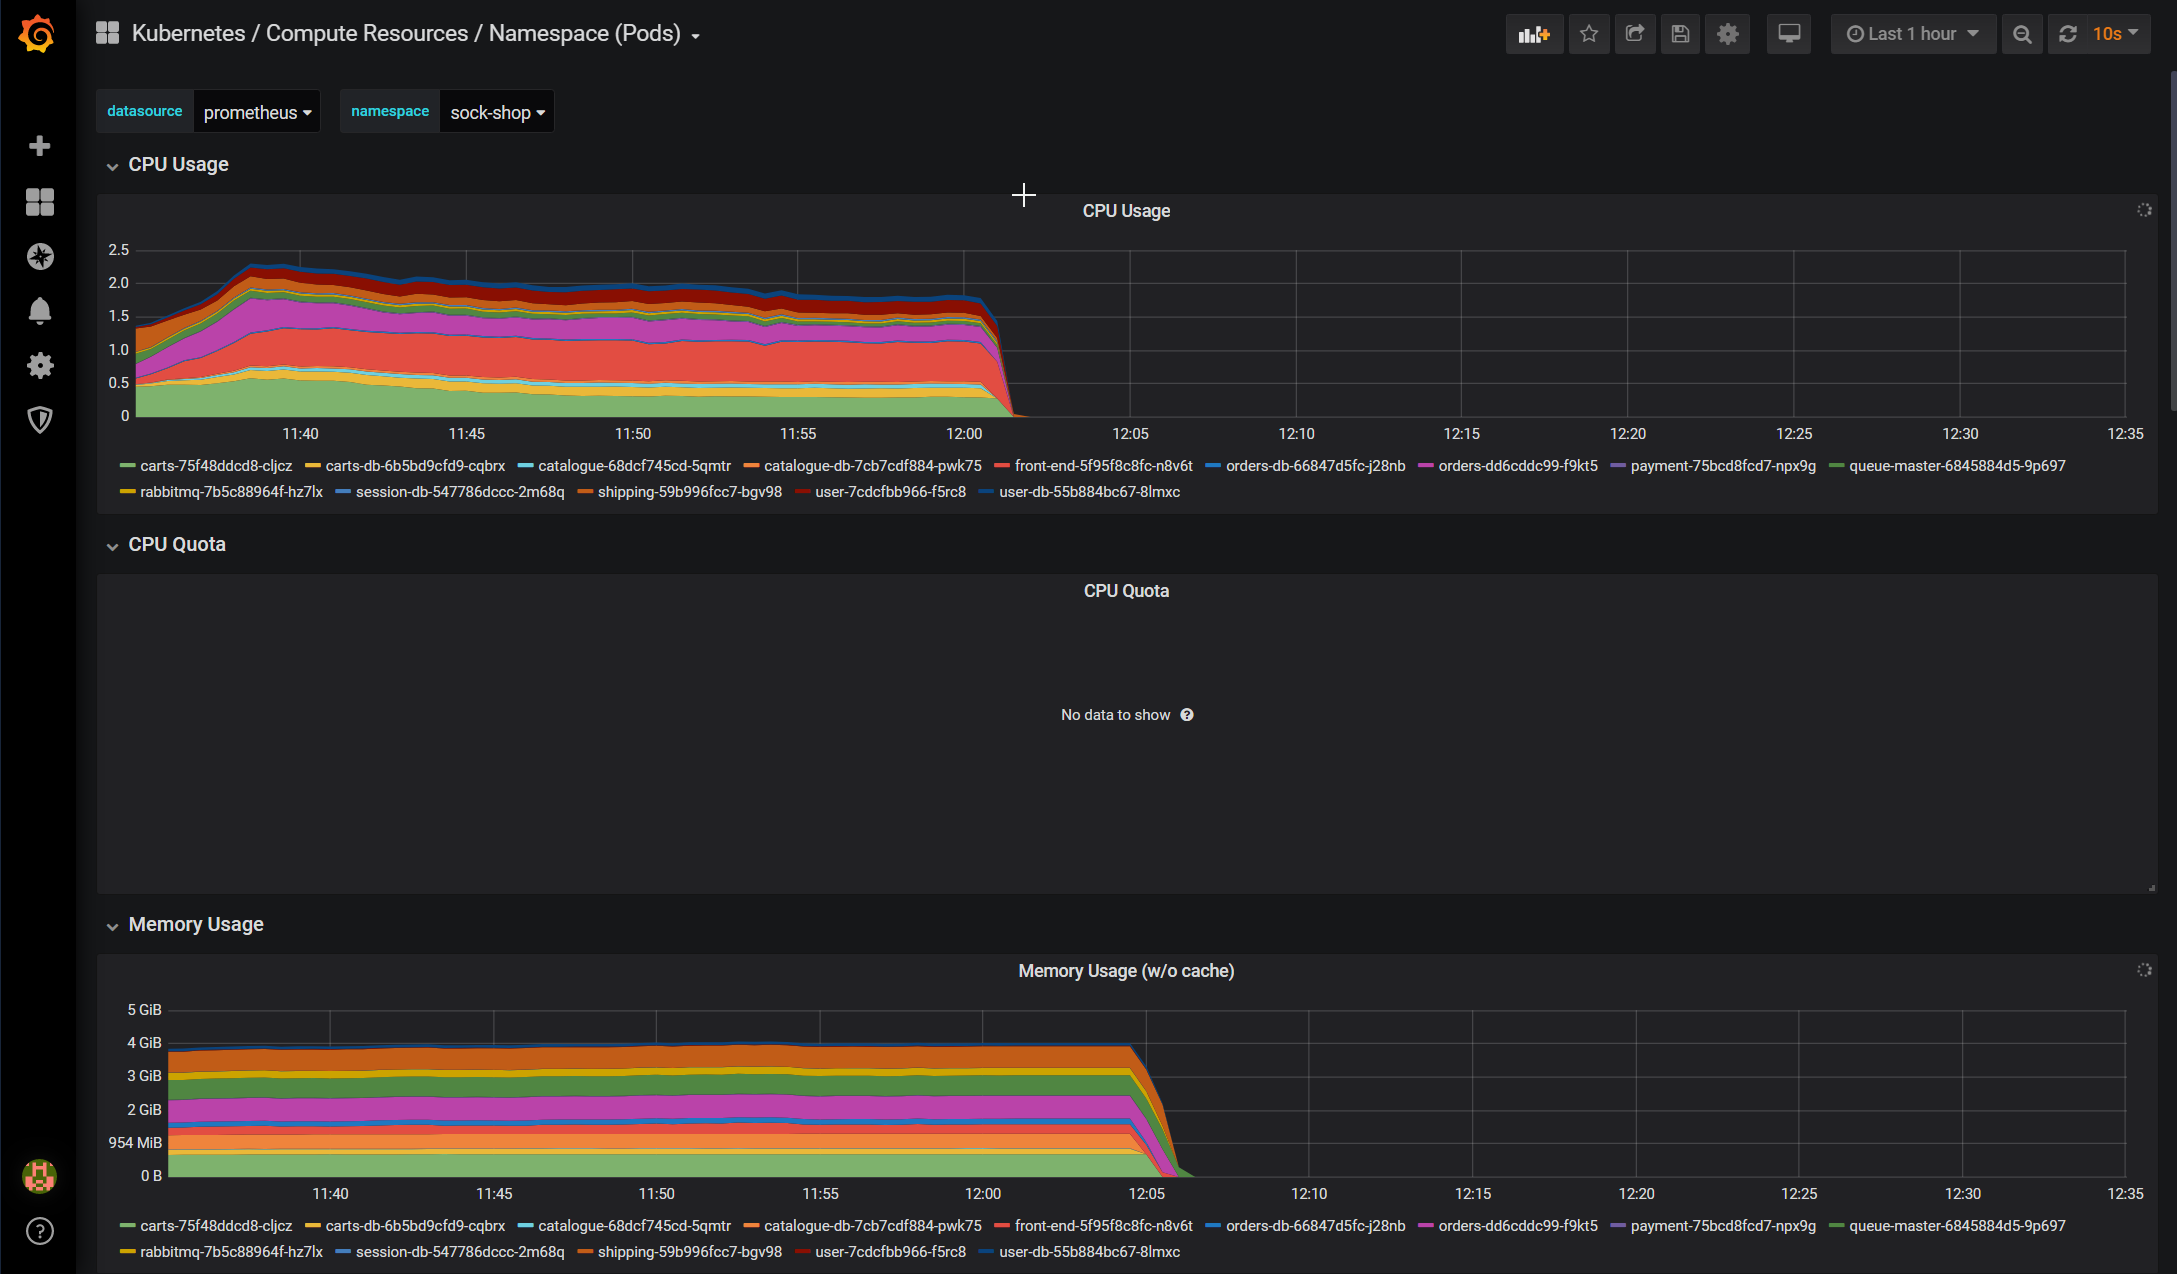
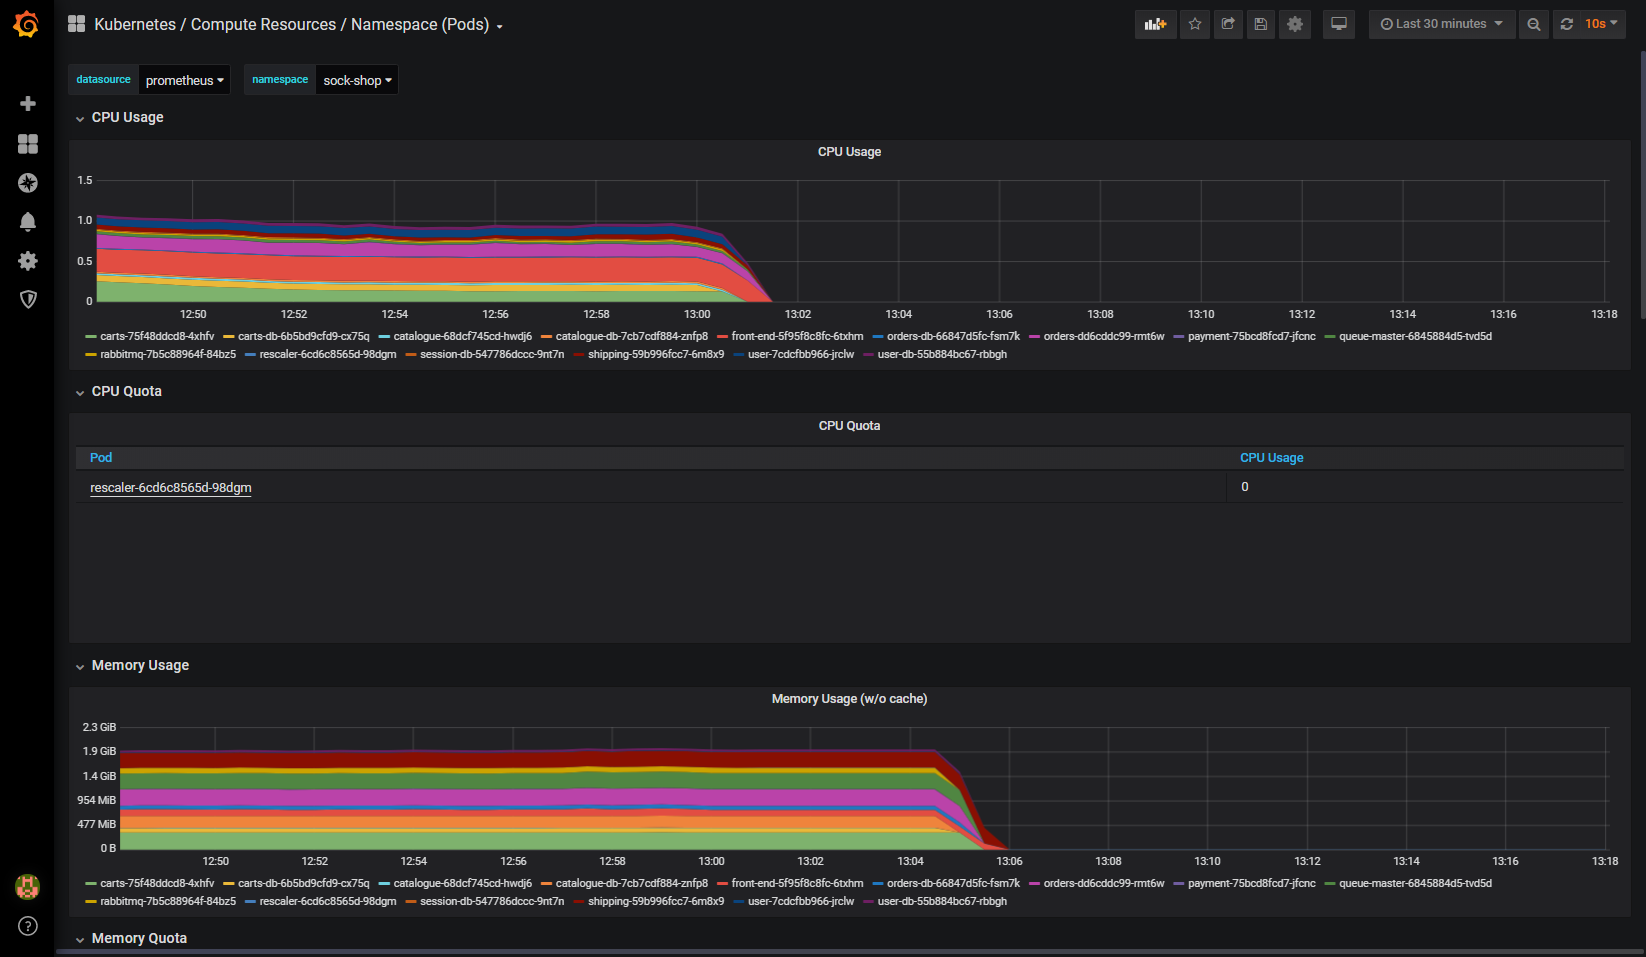
Updated REAME
- Refactor project overview
- Updated UML

diff --git a/README.md b/README.md
@@ -1,27 +1,67 @@
 # Nozzle
 
-Reduce Kubernetes workload on scheduled or traffic decision basis and restore workload on-demand via Web UI or http trigger.
+Reduce Kubernetes workload on schedule or traffic decision basis and restore workload on-demand via Web UI or http trigger.
+
+## Introduction
+
+This project has been initially created during the [Sustainable Digital Challenge](https://www.apidays.co/sustainable-digital-challenge) event organized by [APIdays](https://www.apidays.co) to demonstrate the vision of an aggressive compute resource saving strategy.
+
+> Do you keep the lights on, once you left the room ?
+
+This simple sentense resumes the resoning on how over estimating [availability](https://uptime.is) leads to uncouscious a wast of natural resources.
+
+Nozzle promotes sustainability by simply shuting down eligible resources like:
+
+- **Non-production** environments managed by developer
+- **Application services** required to run only on working hours
+
+### How it works
+
+Nozzle has been initially designed to run as function inside Kubernetes.
+The following sequence diagram describe the steps that functions acheive to securely reduce and restore the workload managed by this orchestrator.
+
+![UML](./docs/diagrams/nozzle/nozzle.png)
+
+### Design requirements
+
+The project has been design using the following requirements to ensure the product sustainability.
+
+* [x] Store only when required
+* [x] Search for reuse before creating something new
+* [x] Aims for the least footprint
+* [x] Constrain the volume of data transfer and resource allocation
+* [x] Scale-to-zero when possible
 
 ### Screeshots
 
-![Grafana footprint](./docs/img/grafana_downscale.png)
+The follwing screeshots show the Nozzle impact on the [microservices-demo](https://microservices-demo.github.io) from [Weaveworks](https://www.weave.works), which by default supports 14 microservices.
 
-![Rescaler Web UI](./docs/img/rescaler.png)
+User gets the following reactive landing page after noozle downscaled the application.
 
-![Rescaler footprint](./docs/img/grafana_rescaler.png)
+![Rescaler landing page](./docs/img/rescaler_landing_page.png)
+
+Once clicked on the **rescale** button, the user gets the logs related to the rescaling of the workload associated to its application.
+
+> From a **storage efficiency** point-of-view Noozle restores the application from Kubernetes resource [annotations](https://kubernetes.io/docs/concepts/overview/working-with-objects/annotations/).
+> By defualt the last known Kubernetes resources configuration is backed up inside the native `kubectl.kubernetes.io/last-applied-configuration` annotation.
+> If not present, Nozzle generates its own annotation containing the minimal amount of date.
+> The following annotation are generated depending on the resource type:
+> * **Deployment & Statefulset**: `replicas.nozzle.io/last-known-configuration`
+> * **Ingress**: `rules.nozzle.io/last-known-configuration`
+
+![Rescaler landing page logs](./docs/img/rescaler_logs.png)
+
+Resource consumption after user request to rescale.
 
 ![Rescaling footprint](./docs/img/grafana_rescale.png)
 
-## Backup efficiency
+User have to refresh it brower tab to regain access to its application
 
-The last-known Kubernetes resources configuration is backed up as [annotations](https://kubernetes.io/docs/concepts/overview/working-with-objects/annotations/), **only** if the native `kubectl.kubernetes.io/last-applied-configuration`  is not present.
+![Rescaling footprint](./docs/img/sock-shop.png)
 
-Following additional annotations are implement depending on the ressource type:
+This last picture shows the resource consumtion after noozle downscaled the application and deployed the rescaler.
 
-* **Deployment & Statefulset**: `replicas.nozzle.io/last-known-configuration`
-* **Ingress**: `rules.nozzle.io/last-known-configuration`
-
-**Warning** : Ingress resources are modified to redirect the traffic to the `rescaler` pod
+![Grafana footprint](./docs/img/grafana_downscale.png)
 
 ## Message formats
 
@@ -29,6 +69,8 @@ Following additional annotations are implement depending on the ressource type:
 * **Ingress JSON**: `{"namespace": str, "name": str, "rules": { dict }}`
 
 ## Implementations
+
+Following the project progress the following plateforms were implemented to compare their own sustainability.
 
 ### Kubeless
 
@@ -38,58 +80,10 @@ Serverless implementation based on Python3, Kubeless and NATS.
 
 Serverless implementation based on Python3, OpenFaaS and NATS.
 
-### Dapr
+### Fission
 
-Serverless implementation based on Python3, Dapr and NATS.
+Serverless implementation based on Python3, Fission and NATS Streaming.
 
 ### Golang
 
 Native Kubernetes implementation based on a Custom Controller written and Go `1.13.x`.
-
-```plantuml
-@startuml
-
-actor "user"
-participant "publish-replicas"
-database "kubernetes"
-queue "nats"
-participant "downscale-replicas"
-participant "inject-rescaler"
-participant "update-ingress"
-queue "stan"
-entity "rescaler"
-
-== Inventory ==
-"publish-replicas" -> "kubernetes" : List namespaces labeled \n ""nozzle=true""
-"kubernetes" --> "publish-replicas" : Eligible workload replicas (deploy/sts)
-"publish-replicas" -> "nats": Publish to **k8s_replicas** topic
-
-== Downscale ==
-"downscale-replicas" -> "nats": Subscribe **k8s_replicas** topic
-"nats" --> "downscale-replicas": Replicas JSON
-"downscale-replicas" -> "kubernetes": Reduce replicas: \n""deploy = 0, sts = 1""
-
-== Redirect ==
-"update-ingress" -> "nats": Subscribe **k8s_replicas** topic
-"nats" --> "update-ingress": Replicas JSON
-"update-ingress" -> "stan": Publish matched selector \n ingress spec to topic **k8s_ingress** topic
-"update-ingress" -> "kubernetes": Change ingress target
-|||
-"inject-rescaler" -> "nats": Subscribe **k8s_replicas** topic
-"nats" -> "inject-rescaler": Replicas JSON
-"inject-rescaler" -> "kubernetes": Deploy on-demand replicas rescaler 
-"kubernetes" --> "rescaler": Run Web server
-
-== User action ==
-"user" -> "rescaler": Request rescale
-
-== Rescale ==
-"rescale-replicas" -> "stan": Subscribe **k8s_ingresses**
-"rescaler" -> "rescale-replicas": Request rescaling
-"stan" --> "rescale-replicas": Select ingress
-"rescale-replicas" -> "kubernetes": Restore replicas
-"rescale-replicas" -> "kubernetes": Restore ingress
-"rescale-replicas" -> "kubernetes": Remove rescaler
-"kubernetes" --> "rescaler": Delete rescaler resources (deploy, svc)
-@enduml
-```
